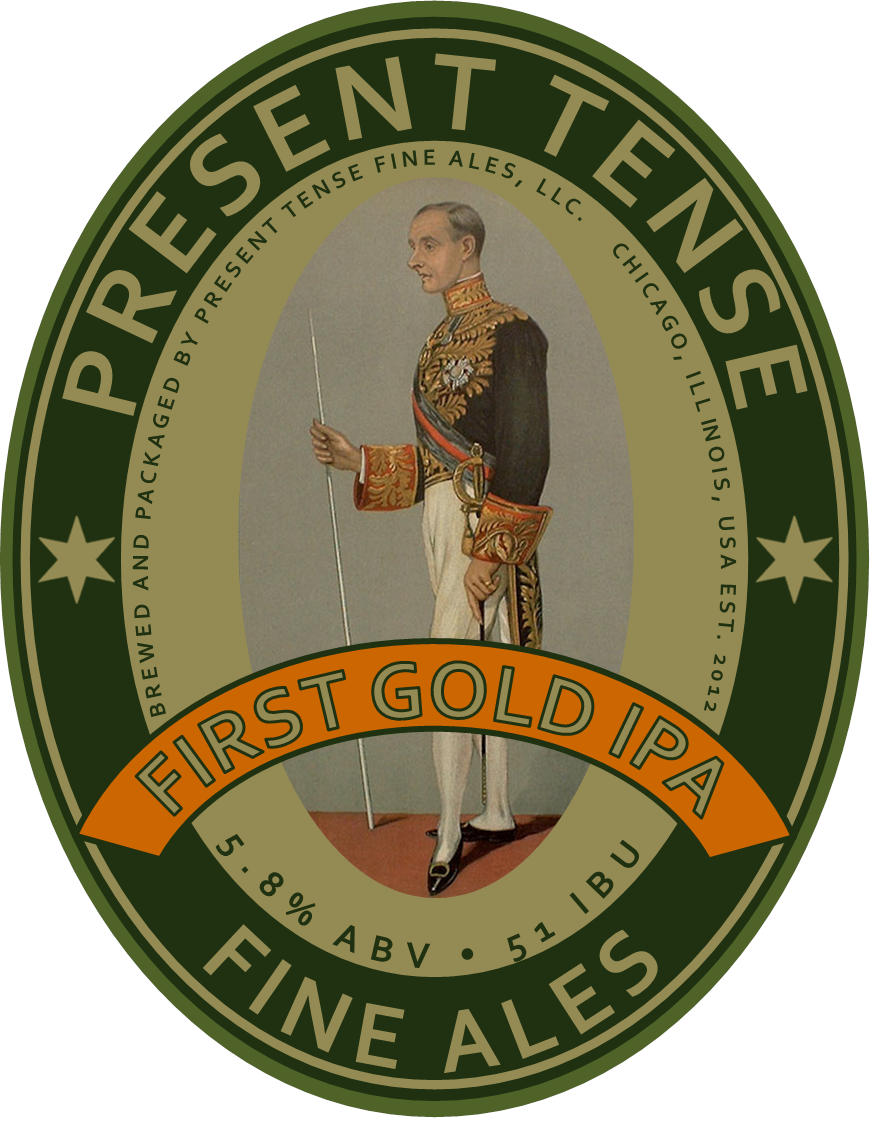
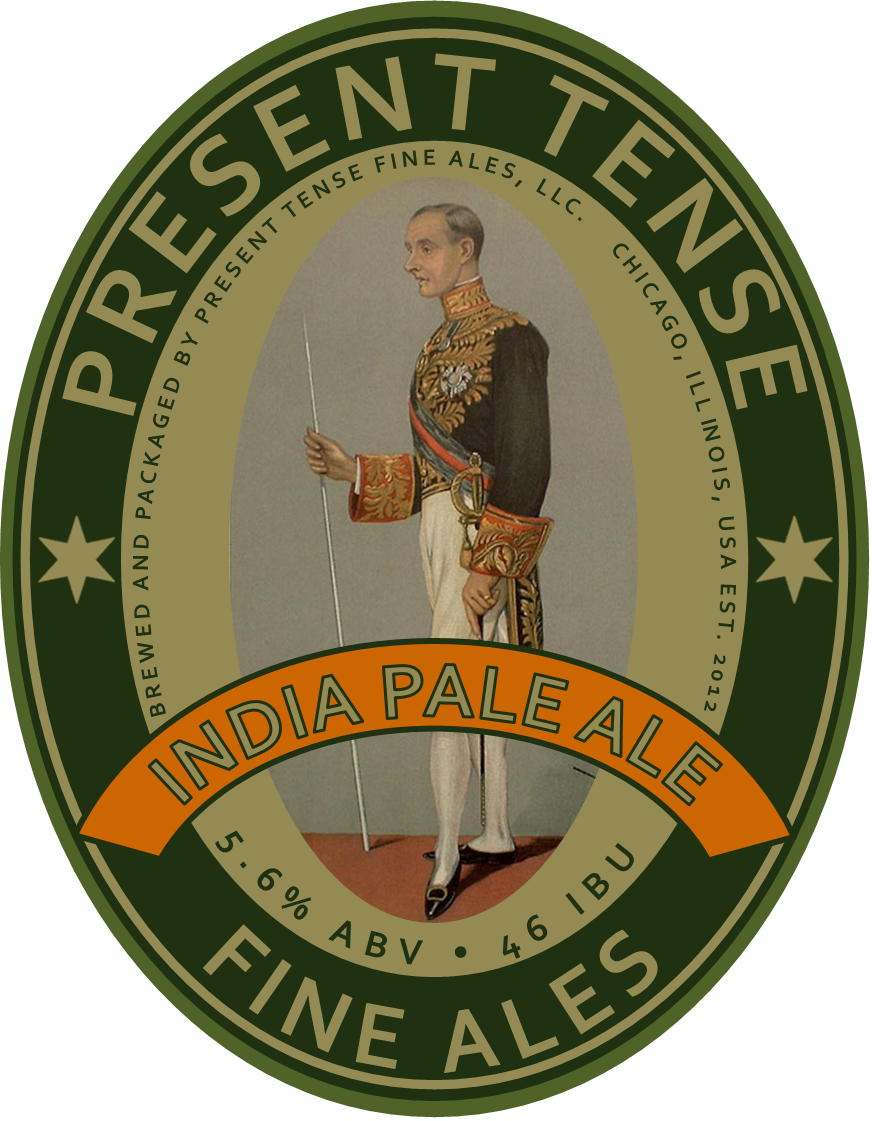
adding images and updating beer list

diff --git a/index.html b/index.html
@@ -183,44 +183,41 @@
       </div>
       <hr>
       <br>
-
       <div class="row">
         <div class="col-md-1">&nbsp;</div>
-        <div class="col-md-3">
-          <h3 class="style">India Pale Ale</h3>
-          <br>
-          <h5 class="details">ABV: 5.3%
-            <br> FG: 1.014
-            <br>IBU's: 24</h5>
-          <br>
-        </div>
+          <div class="col-md-3">
+            <h3 class="style">India Pale Ale</h3>
+            <br>
+            <h5 class="details">ABV: 5.6%
+              <br> FG: 1.011
+              <br>IBU's: 46</h5>
+            <br>
+          </div>
         <div class="col-md-4 col-xs-10">
-          <p class="descriptions">For all the bandwagon hop heads and fickle, uninformed craft beer dabblers...
-            this beer is not about following the crowd or joining the masses of taste bud destroying, one and
-            done beers…this is a different type of IPA; the unassuming, yet assertive type; the type that need
-            not outdo another because this beer simply is what it is – upfront hoppy, floral character
-            complimenting a grainy, classic English malt profile</p>
+          <p class="descriptions">For all the bandwagon hop heads and fickle, uninformed craft beer dabblers...this beer is not about following the crowd or joining the masses of taste bud destroying, one and done beers…this is a different type of IPA; the unassuming, yet assertive
+            type; the type that need not outdo another because this beer simply is what it is – upfront hoppy, floral character complimenting a grainy, classic English malt profile</p>
         </div>
         <div class="col-md-3 col-xs-8">
           <img src="images/IPA.png" class="img-responsive labels" />
         </div>
         <div class="col-md-1">&nbsp;</div>
       </div>
-      <hr>
-      <br>
 
+<center>
       <div class="box">
       <h1 class="seasonal">SEASONAL</h1>
       </div>
-
+      </ul>
+</center>
+</div>
 
       <div class="row">
         <div class="col-md-1">&nbsp;</div>
         <div class="col-md-3">
           <h3 class="style">Ordinary Bitter</h3>
           <br>
-          <h5 class="details">ABV: 4.3%
-            <br> FG: 1.013
+          <h5 class="details">ABV: 4.0%
+            <br> FG: 1.010
             <br>IBU's: 36</h5>
           <br>
         </div>
@@ -239,8 +236,8 @@
         <div class="col-md-3">
           <h3 class="style">Premium Bitter</h3>
           <br>
-          <h5 class="details">ABV: 5.1%
-            <br> FG: 1.017
+          <h5 class="details">ABV: 4.8%
+            <br> FG: 1.012
             <br>IBU's: 40</h5>
           <br>
         </div>
@@ -259,9 +256,9 @@
         <div class="col-md-3">
           <h3 class="style">Brown Porter</h3>
           <br>
-          <h5 class="details">ABV: 4.3%
-            <br> FG: 1.018
-            <br>IBU's: 36</h5>
+          <h5 class="details">ABV: 5.1%
+            <br> FG: 1.012
+            <br>IBU's: 28</h5>
           <br>
         </div>
         <div class="col-md-4 col-xs-10">
@@ -278,16 +275,18 @@
       <div class="row">
         <div class="col-md-1">&nbsp;</div>
           <div class="col-md-3">
-            <h3 class="style">First Gold IPA</h3>
+            <h3 class="style">Summer Ale</h3>
             <br>
-            <h5 class="details">ABV: 5.8%
-              <br> FG: 1.015
-              <br>IBU's: 51</h5>
+            <h5 class="details">ABV: 5.1%
+              <br> FG: 1.010
+              <br>IBU's: 26</h5>
             <br>
           </div>
         <div class="col-md-4 col-xs-10">
-          <p class="descriptions">For all the bandwagon hop heads and fickle, uninformed craft beer dabblers...this beer is not about following the crowd or joining the masses of taste bud destroying, one and done beers…this is a different type of IPA; the unassuming, yet assertive
-            type; the type that need not outdo another because this beer simply is what it is – upfront hoppy, floral character complimenting a grainy, classic English malt profile</p>
+          <p class="descriptions">The quintessence of a refreshing libation.  This crisp English golden ale
+           is a perfect complement to a warm, sunny day. Malt forward with a distinct grainy character
+           gradually finishing with an assertive spicy and floral hop note.  Not too sweet, not too dry...
+           perfect for another pint!</p>
         </div>
         <div class="col-md-3 col-xs-8">
           <img src="images/IPA.png" class="img-responsive labels" />
@@ -296,10 +295,32 @@
       </div>
       <hr>
 
+      <div class="row">
+        <div class="col-md-1">&nbsp;</div>
+          <div class="col-md-3">
+            <h3 class="style">Summer Brown</h3>
+            <br>
+            <h5 class="details">ABV: 5.0%
+              <br> FG: 1.012
+              <br>IBU's: 36</h5>
+            <br>
+          </div>
+        <div class="col-md-4 col-xs-10">
+          <p class="descriptions">Fully steeped in English tradition with its eyes set on the land down under.
+            This brown ale has all of the right chocolatey and roasty notes balanced by a key lime and tropical
+            fruit hoppiness from Australian Galaxy hops.</p>
+        </div>
+        <div class="col-md-3 col-xs-8">
+          <img src="images/summerbrown.png" class="img-responsive labels" />
+        </div>
+        <div class="col-md-1">&nbsp;</div>
+      </div>
+      <hr>
+
       <div id="navigation-cs">
         <ul class="menu-main">
           <div class="box">
-            <h1 class="seasonal">COMING SOON</h1>             
+            <h1 class="seasonal">COMING SOON</h1>
           </div>
 
             <li class="head-font style">Pale Ale</li><hr>

diff --git a/stylesheets/style.css b/stylesheets/style.css
@@ -187,7 +187,8 @@ div.box h1{
 	border: 1px solid black;
 	display: block;
 	margin-right: 80%;
-	justify-content: center;
+	text-align: center;
+	vertical-align: middle;
 }
 #top {
 	padding-top:100px;
